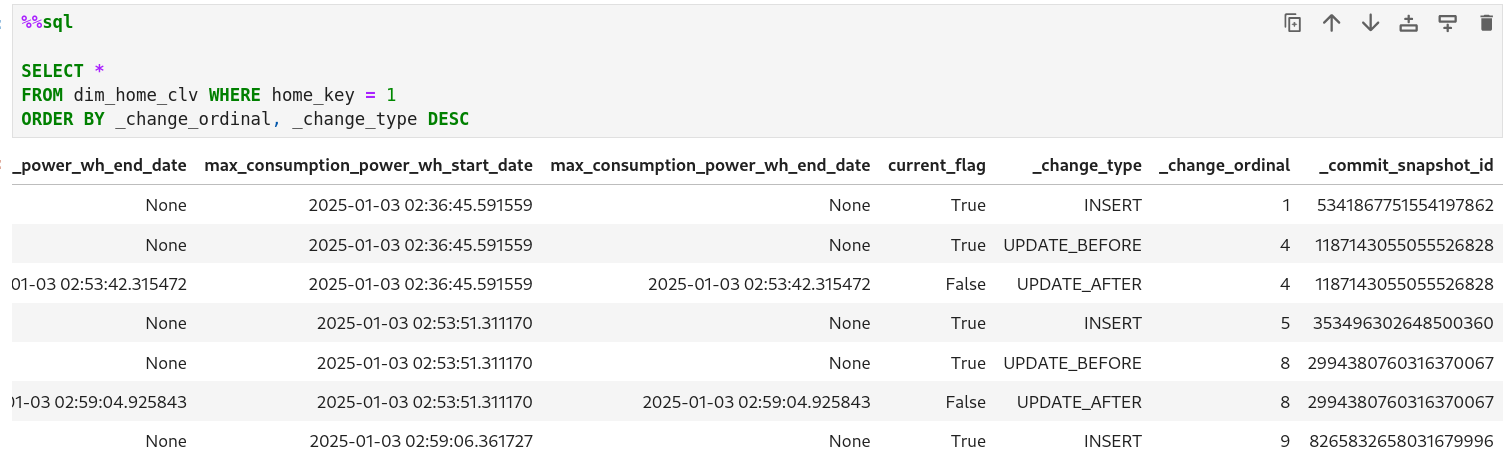
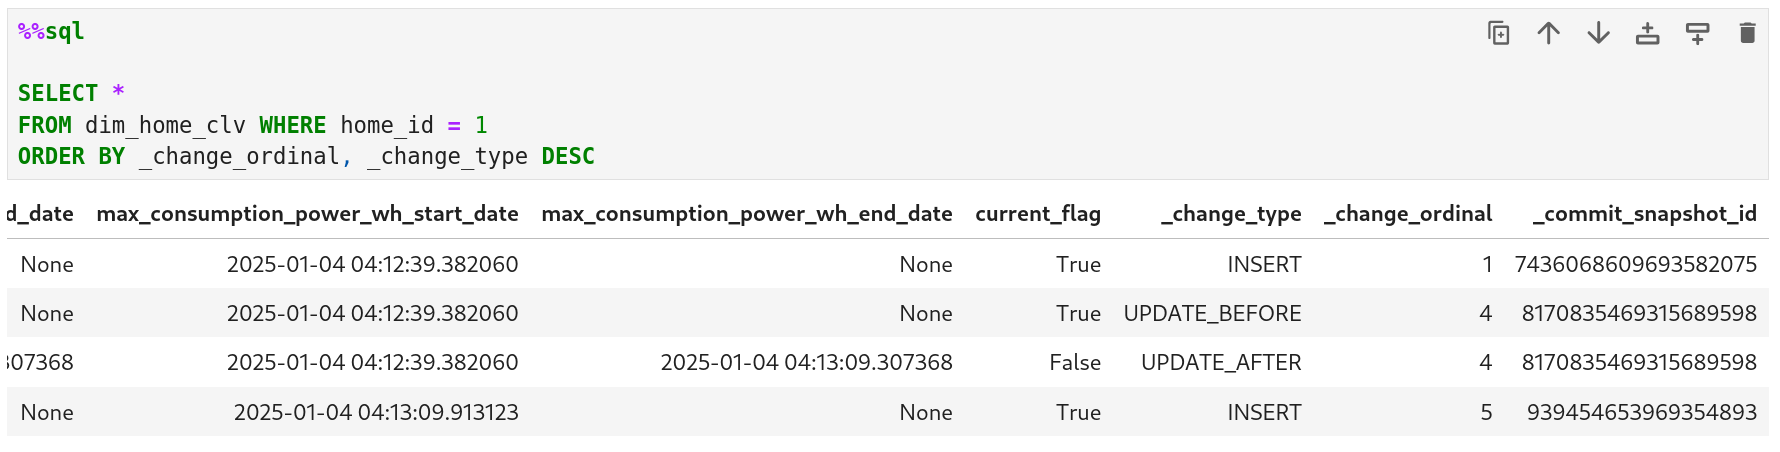
update readme

diff --git a/README.md b/README.md
@@ -660,7 +660,7 @@ USING (
     FROM SolarX_WH.dim_home_appliances
     GROUP BY home_key
 ) dim_app
-ON dim_home.home_key = dim_app.home_key AND dim_home.current_flag = TRUE
+ON dim_home.home_id = dim_app.home_key AND dim_home.current_flag = TRUE
 
 WHEN MATCHED AND (
     dim_home.max_consumption_power_wh != dim_app.max_consumption_power_wh OR
@@ -683,11 +683,12 @@ USING (
     FROM SolarX_WH.dim_home_appliances
     GROUP BY home_key
 ) dim_app
-ON dim_home.home_key = dim_app.home_key AND dim_home.current_flag = TRUE
+ON dim_home.home_id = dim_app.home_key AND dim_home.current_flag = TRUE
 
 WHEN NOT MATCHED THEN 
 INSERT (
     home_key,
+    home_id,
     min_consumption_power_wh, 
     max_consumption_power_wh,
     min_consumption_power_wh_start_date,
@@ -696,7 +697,8 @@ INSERT (
     max_consumption_power_wh_end_date,
     current_flag
 ) VALUES (
-    dim_app.home_key,
+    (SELECT COUNT(*) FROM SolarX_WH.dim_home) + 1,
+    1,
     dim_app.min_consumption_power_wh,
     dim_app.max_consumption_power_wh,
     NOW(),
@@ -708,6 +710,7 @@ INSERT (
 ```
 
 And here is a test run for the `scd2` when changing the source data -`dim_home_appliances`- two times in the background and running the `etl` again.
+
 ![](images/scd1.png)
 ![](images/scd2.png)
 
@@ -721,7 +724,7 @@ Also `iceberg` natively tracks the changes creating a snapshot with each `INSERT
 CALL demo.system.create_changelog_view(
     table => 'SolarX_WH.dim_home',
     changelog_view => 'dim_home_clv',
-    identifier_columns => array('home_key')
+    identifier_columns => array('home_id')
 )
 ```
 
@@ -729,3 +732,101 @@ CALL demo.system.create_changelog_view(
 
 ![](images/log2.png)
 And we can go back and time travel to any snapshot even if delete the record.
+
+
+
+### Home Power Readings  Fact
+We use the high rate raw `SolarX_Raw_Transactions.home_power_readings` as the source data here and load it into the `fact_home_power_readings` after extracting the relevant data from the source, like decrease the granularity from ms to batches of 15 minutes and extracting the the date and keys.
+
+We also take the `dim_home` from earlier as a source too for the `home_key`.
+
+<br/>
+
+The ETL process consists of two main parts, First extract the desired data from the raw source with the below query
+```sql
+%%sql
+
+SELECT
+     CAST(CONCAT(
+        YEAR(timestamp), '-', 
+        LPAD(MONTH(timestamp), 2, '0'), '-', 
+        LPAD(DAY(timestamp), 2, '0'), ' ',
+        LPAD(HOUR(timestamp), 2, '0'), ':',
+        LPAD(FLOOR(MINUTE(timestamp) / 15) * 15, 2, '0'), ':00'
+    ) AS TIMESTAMP) AS home_power_reading_key,
+    DATE(timestamp) AS date,
+    15_minutes_interval,
+    SUM(min_consumption_wh) AS min_consumption_power_wh,
+    SUM(max_consumption_wh) AS max_consumption_power_wh
+FROM 
+    SolarX_Raw_Transactions.home_power_readings
+WHERE 
+    DAY(timestamp) = 1
+GROUP BY 
+    15_minutes_interval, home_power_reading_key, DATE(timestamp)
+ORDER BY 
+    home_power_reading_key
+LIMIT 10
+```
+A look of how this looks like
+![](images/fact_hp1.png)
+We used the timestamp of 15 minutes chunks as a surrogate key, it's also not strait forward to get the normal incremental key in a parallel computing setup like here, and the timestamp is guaranteed to be unique.
+
+Then we use the previous query as window function with merge operation to only insert new data
+```sql
+%%sql
+
+WITH staging_table AS (
+    SELECT
+         CAST(CONCAT(
+            YEAR(timestamp), '-', 
+            LPAD(MONTH(timestamp), 2, '0'), '-', 
+            LPAD(DAY(timestamp), 2, '0'), ' ',
+            LPAD(HOUR(timestamp), 2, '0'), ':',
+            LPAD(FLOOR(MINUTE(timestamp) / 15) * 15, 2, '0'), ':00'
+        ) AS TIMESTAMP) AS home_power_reading_key,
+        DATE(timestamp) AS date,
+        15_minutes_interval,
+        SUM(min_consumption_wh) AS min_consumption_power_wh,
+        SUM(max_consumption_wh) AS max_consumption_power_wh
+    FROM 
+        SolarX_Raw_Transactions.home_power_readings
+    WHERE 
+        DAY(timestamp) = 1
+    GROUP BY 
+        15_minutes_interval, home_power_reading_key, DATE(timestamp)
+)
+
+
+    
+MERGE INTO SolarX_WH.fact_home_power_readings AS target
+USING staging_table AS source
+ON target.home_power_reading_key = source.home_power_reading_key
+      
+WHEN NOT MATCHED THEN
+    INSERT (home_power_reading_key, 
+            home_key, 
+            date_key, 
+            min_consumption_power_wh,
+            max_consumption_power_wh
+    
+    ) 
+    VALUES (source.home_power_reading_key,
+            (SELECT home_key FROM SolarX_WH.dim_home WHERE dim_home.current_flag = TRUE), 
+            source.home_power_reading_key,
+            source.min_consumption_power_wh,
+            source.max_consumption_power_wh     
+    );
+```
+
+
+And here is the final outcome of this fact table
+![](images/facthp2.png)
+
+<br/>
+
+The above inserted `day 1`  data, now we try inserting `day 2` by only changing `DAY(timestamp) = 1` to `DAY(timestamp) = 2`, also we updated the `dim_home` table to test the `home_key` change.
+![](images/scd1.png)
+![](images/scd2.png)
+
+![](images/fact_hp3.png)
